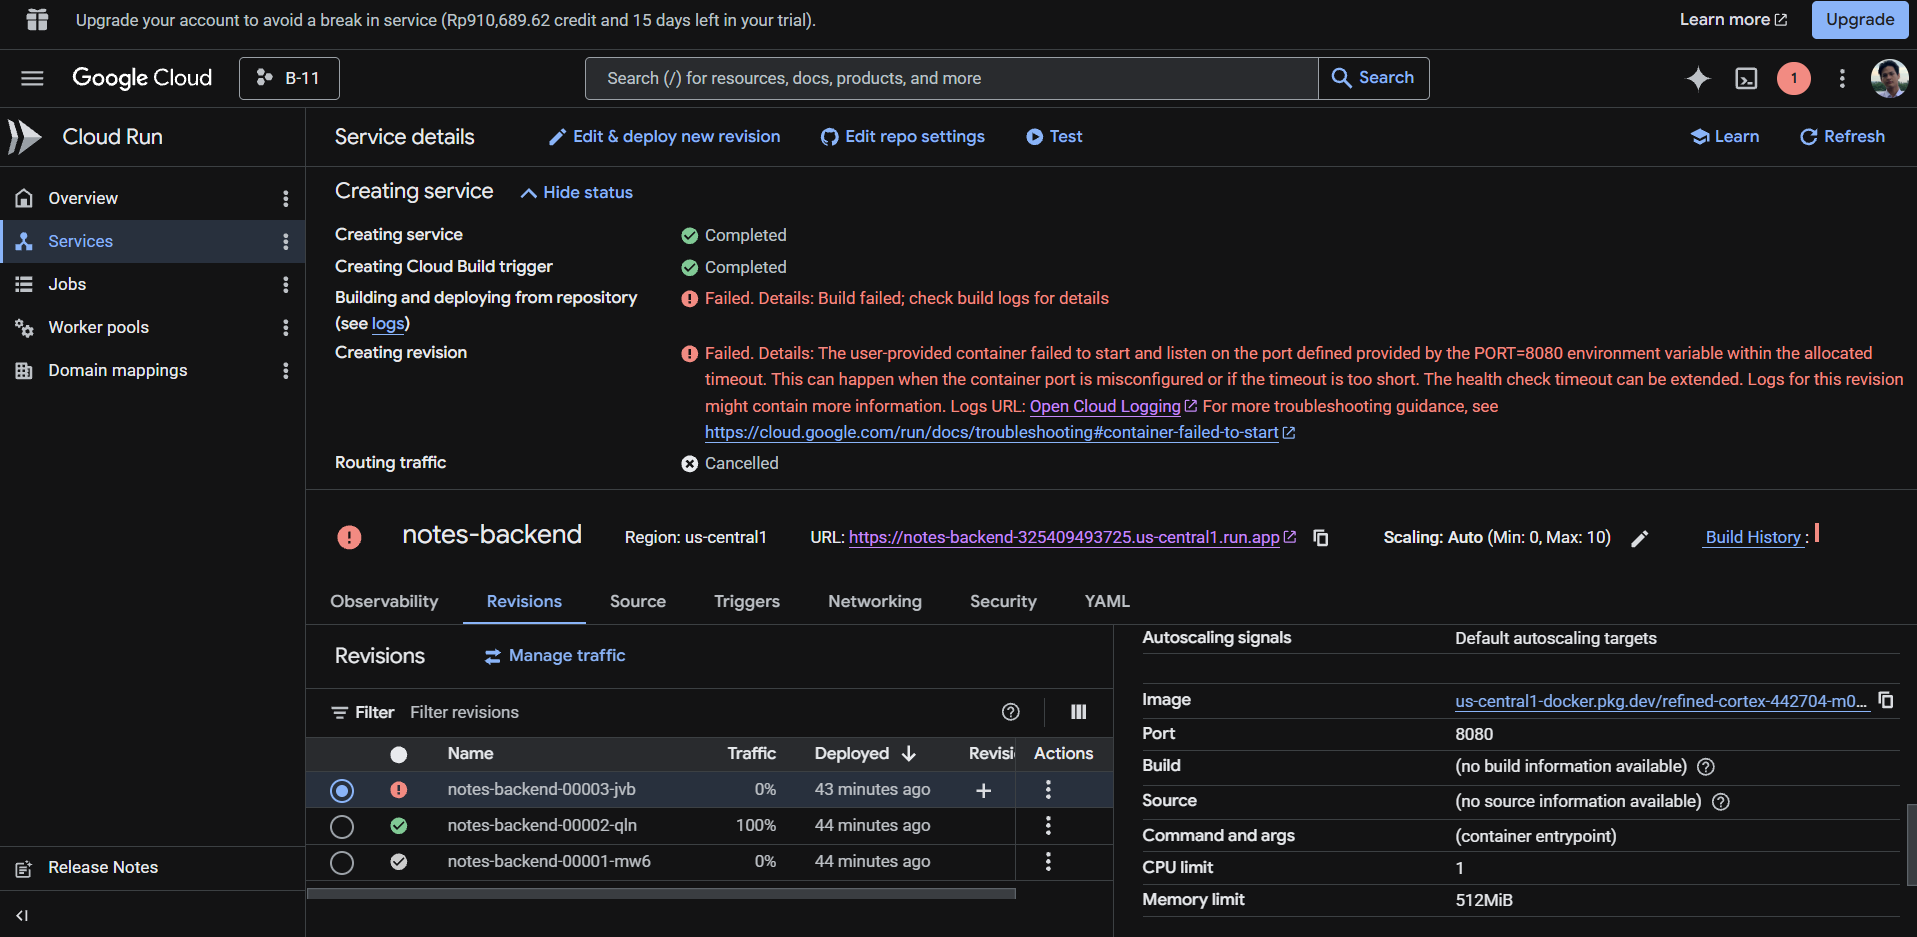
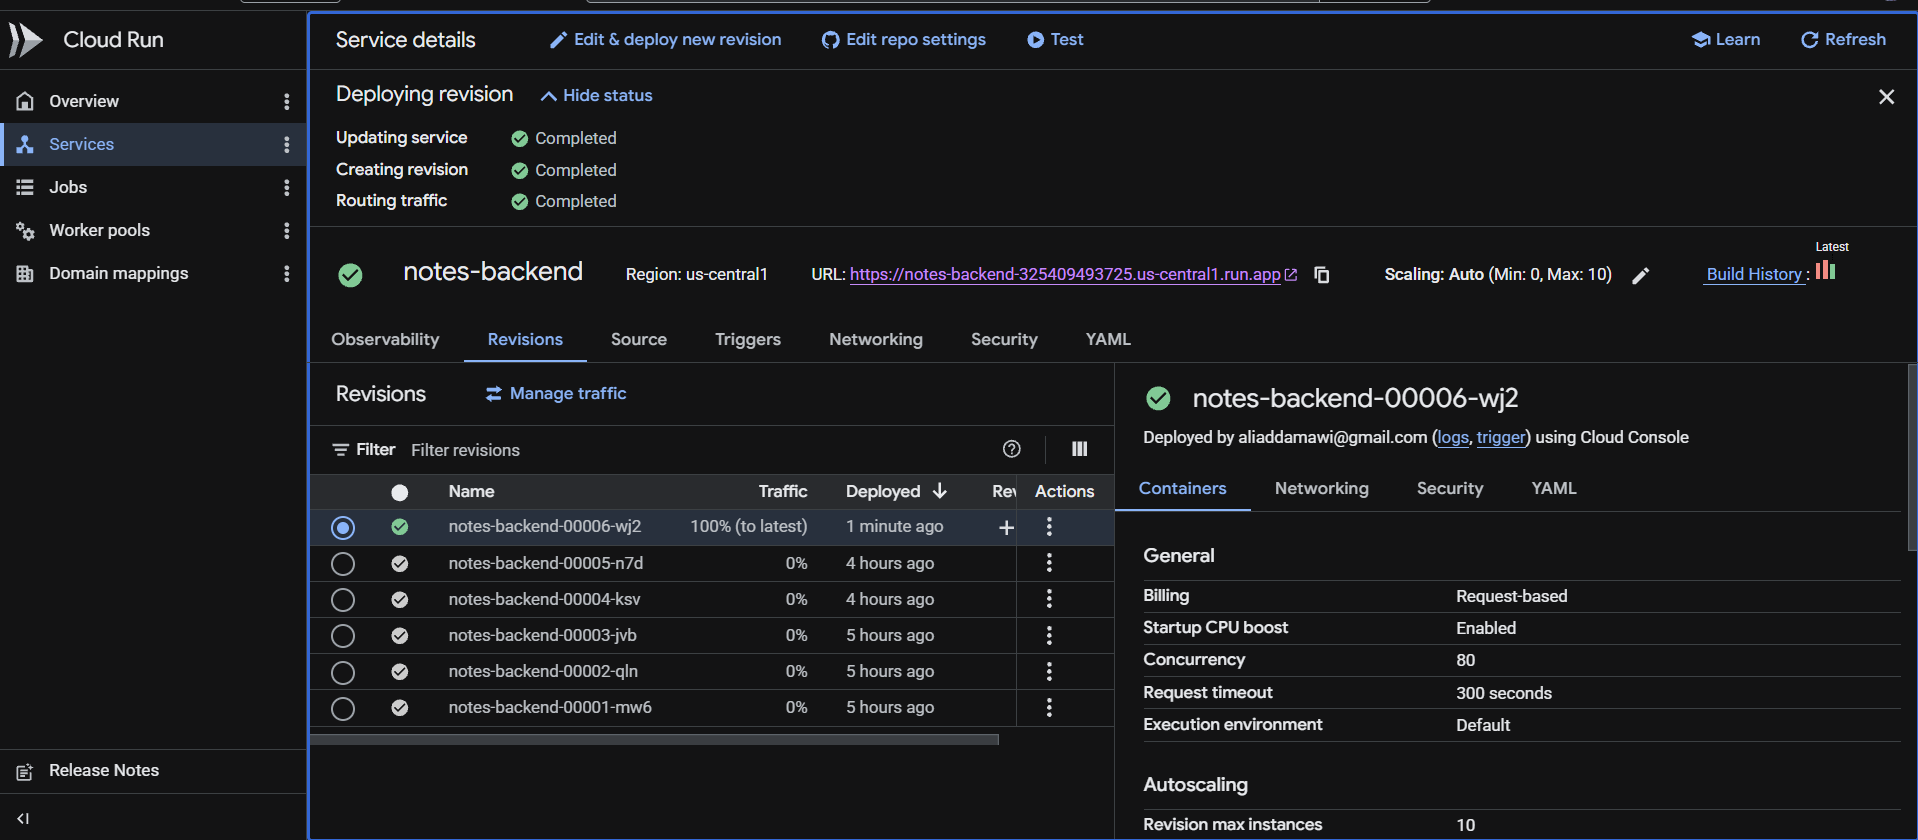
add: app.yaml untuk App Engine

diff --git a/Frontend/script.js b/Frontend/script.js
@@ -1,4 +1,4 @@
-const API_BASE_URL = "http://35.192.66.127:3000/api/v1/notes";
+const API_BASE_URL = "https://notes-backend-325409493725.us-central1.run.app";
 
 const noteForm = document.getElementById("noteForm");
 const noteIdInput = document.getElementById("noteId");
